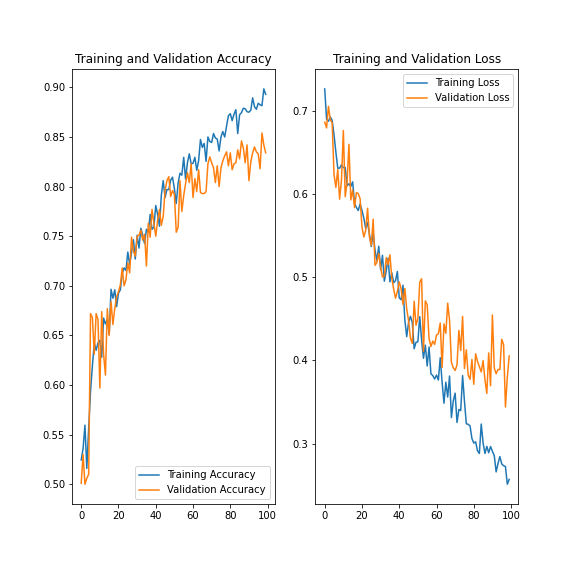
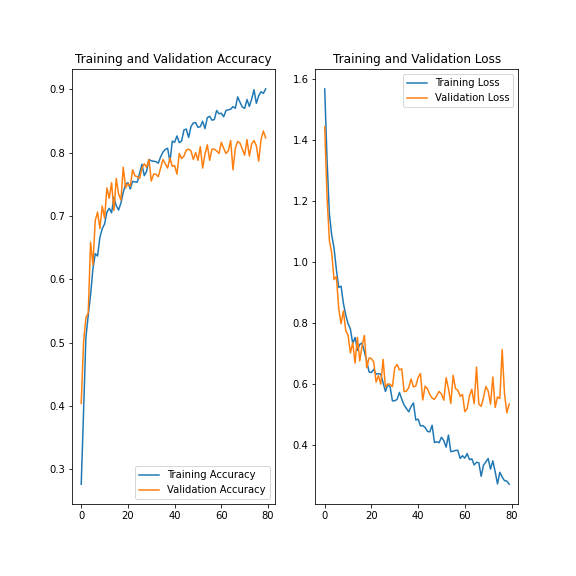
Exercise: Classify Images of Flowers
Validation accuracy around 80%, though the structure of NN might be better (probably).  I doubt the possibilty to achieve accuracy rate more than 85% with this method. without significant compication of the method.

diff --git a/project4.1_main.py b/project4.1_main.py
@@ -1,0 +1,272 @@
+"""project4.
+
+--> Flowers recognition:
+Rose
+Daisy
+Dandelion
+Sunflowers
+Tulips
+"""
+import tensorflow as tf
+from tensorflow.keras.preprocessing.image import ImageDataGenerator
+import logging  # creating log messages
+import os  # os — to read files and directory structure
+import matplotlib.pyplot as plt  # to plot the graph and display images in our training and validation data
+import numpy as np
+import glob
+import shutil
+# import math
+
+
+def plotImages(images_arr):
+    """Plot images that is what this function does.
+
+    In the form of a grid with 1 row and 5 columns
+    where images are placed in each column.
+    """
+    fig, axes = plt.subplots(1, 5, figsize=(20, 20))
+    axes = axes.flatten()
+    for img, ax in zip(images_arr, axes):
+        ax.imshow(img)
+    plt.tight_layout()
+    plt.show()
+
+
+logger = tf.get_logger()
+logger.setLevel(logging.ERROR)
+
+# Import TensorFlow Datasets
+_URL = "https://storage.googleapis.com/download.tensorflow.org/example_images/flower_photos.tgz"
+
+zip_dir = tf.keras.utils.get_file(origin=_URL,
+                                  fname="flower_photos.tgz",
+                                  extract=True)
+# os.path.join(A,B) adds B to the path A, so it becomes A\B
+base_dir = os.path.join(os.path.dirname(zip_dir), 'flower_photos')
+
+zip_dir_base = os.path.dirname(zip_dir)
+print(zip_dir_base)
+
+classes = ['roses', 'daisy', 'dandelion', 'sunflowers', 'tulips']
+
+"""The code below creates a train and a val folder each containing 5
+folders (one for each type of flower).
+It then moves the images from the original folders to these new folders
+such that 80% of the images go to the training set and 20% of the images
+go into the validation set. In the end our directory will have the
+following structure: /train/directories_from_classes and
+/val/directoried_from_classes; initial directories (now empty) will
+remain."""
+total_train = 0
+total_val = 0
+for cl in classes:
+    img_path = os.path.join(base_dir, cl)
+    # glob.glob(path) returns a list of paths depending on symbols in it
+    # i.e. glob.glob(path + '*.txt') will return the list of paths
+    # to all txt files; here it returns paths to all img files
+    images = glob.glob(img_path + '/*.jpg')
+    # images contains the list of paths to images
+    print("{}: {} Images".format(cl, len(images)))
+    # note that a colon in the beginning and in the end of the
+    # iteratable of the list --> it means that the first 80%
+    # and the remaining of the ferst 80%
+    train, val = images[:round(len(images)*0.8)], images[round(len(images)*0.8):]
+    # moving files to train; "if not" creates the directory; probably, better
+    # to use the cycle for creating separately; for the small data it is ok
+    print(cl, len(train), len(val))
+    total_train += len(train)  # calculating total train files number
+    total_val += len(val)  # calculating total val files number
+    for t in train:
+        if not os.path.exists(os.path.join(base_dir, 'train', cl)):
+            os.makedirs(os.path.join(base_dir, 'train', cl))
+        try:
+            shutil.move(t, os.path.join(base_dir, 'train', cl))
+        except: 
+            pass
+
+    # moving files to val
+    for v in val:
+        if not os.path.exists(os.path.join(base_dir, 'val', cl)):
+            os.makedirs(os.path.join(base_dir, 'val', cl))
+        try:
+            shutil.move(v, os.path.join(base_dir, 'val', cl))
+        except:
+            pass
+
+print("total_train, total_val = ", total_train, total_val)
+# the pathes to val and train directories; they contains
+# 5 directories with with flower names
+train_dir = os.path.join(base_dir, 'train')
+val_dir = os.path.join(base_dir, 'val')
+
+"""Now, when paths are set, we are ready to start."""
+
+# Number of training examples to process before
+# updating our models variables
+BATCH_SIZE = 100
+# Our training data consists of images with width
+# of 150 pixels and height of 150 pixels
+IMG_SHAPE = 150
+
+
+""" MODEL AUGMENTATION """
+
+""" Rotating images in the dataset
+Example of how it could be applied is presented below
+
+image_gen.flow_from_directory returns:
+A DirectoryIterator yielding tuples of (x, y)
+where x is a numpy array containing a batch of images
+with shape (batch_size, *target_size, channels) and y
+is a numpy array of corresponding labels.
+"""
+
+""" Augmenting the whole dataset"""
+
+"""Images must be formatted into appropriately pre-processed floating
+point tensors before being fed into the network. The steps involved in
+preparing these images are:
+1. Read images from the disk
+2. Decode contents of these images and convert it into proper grid format
+as per their RGB content
+3. Convert them into floating point tensors
+4. Rescale the tensors from values between 0 and 255 to values between
+0 and 1, as neural networks prefer to deal with small input values.
+
+Fortunately, all these tasks can be done using
+the class tf.keras.preprocessing.image.ImageDataGenerator.
+We can set this up in a couple of lines of code."""
+
+image_gen_train = ImageDataGenerator(
+      rescale=1./255,
+      rotation_range=40,
+      width_shift_range=0.2,
+      height_shift_range=0.2,
+      shear_range=0.2,
+      zoom_range=0.2,
+      horizontal_flip=True,
+      fill_mode='nearest')
+# Creating an object which will be applied to the dataset
+# Next applying the object (method) to the dataset to obtain
+# a new one with new prperties
+
+train_data_gen = image_gen_train.flow_from_directory(
+  directory=train_dir,
+  target_size=(IMG_SHAPE, IMG_SHAPE),
+  batch_size=BATCH_SIZE,
+  shuffle=True,
+  class_mode='categorical')  # classes=classes,
+# Returns a DirectoryIterator yielding tuples of (x, y)
+# where x is a numpy array containing a batch of images with shape
+# (batch_size, *target_size, channels) and y is a numpy array
+# of corresponding labels.
+
+"""Defining the validation dataset (without augmenting)"""
+
+validation_image_generator = ImageDataGenerator(rescale=1./255)
+
+"""After defining our generators for training and validation
+images, flow_from_directory method will load images from the disk,
+apply rescaling, and resize them using single line of code."""
+
+val_data_gen = validation_image_generator.flow_from_directory(
+  directory=val_dir,
+  target_size=(IMG_SHAPE, IMG_SHAPE),
+  batch_size=BATCH_SIZE,
+  shuffle=True,
+  class_mode='categorical')
+
+""" Visualizing Training images """
+
+augmented_images = [train_data_gen[0][0][0] for i in range(5)]
+plotImages(augmented_images)
+
+
+# [:5] = [0:5:1] 0 and :1 are defaults
+# plotImages(sample_training_images[:5])  # Plot images 0-4
+
+
+"""  Define the model """
+"""  1. Define layers, make the list of layers
+     2. Input the sequence (list) of layers into a model
+     3. Compile the model
+"""
+# 1. Define layers
+# in Conv2D: 32 - number of outputs, 3,3 - the size of the Kernel
+# relu gives nonlinearity; input shape 150px x 150 px x 3 colors
+layers = [tf.keras.layers.Conv2D(32, (3, 3), activation='relu',
+                                 input_shape=(150, 150, 3))]
+layers.append(tf.keras.layers.MaxPooling2D(2, 2))
+
+layers.append(tf.keras.layers.Conv2D(64, (3, 3), activation='relu'))
+layers.append(tf.keras.layers.MaxPooling2D(2, 2))
+
+layers.append(tf.keras.layers.Conv2D(128, (3, 3), activation='relu'))
+layers.append(tf.keras.layers.MaxPooling2D(2, 2))
+
+layers.append(tf.keras.layers.Conv2D(128, (3, 3), activation='relu'))
+layers.append(tf.keras.layers.MaxPooling2D(2, 2))
+
+layers.append(tf.keras.layers.Dropout(0.25))  # turns off 25% of nodes randomly
+
+layers.append(tf.keras.layers.Flatten())
+
+layers.append(tf.keras.layers.Dropout(0.25))
+layers.append(tf.keras.layers.Dense(512, activation='relu'))
+layers.append(tf.keras.layers.Dense(32, activation='relu'))  # default activation is linear
+layers.append(tf.keras.layers.Dense(5, activation='softmax'))
+
+# 2. Input the sequence (list) of layers into a model
+model = tf.keras.models.Sequential(layers)
+
+# 3. Compile the model
+model.compile(optimizer='adam',
+              loss='categorical_crossentropy',
+              metrics=['accuracy'])
+
+""" Model Summary """
+model.summary()
+
+EPOCHS = 80
+history = model.fit_generator(
+    generator=train_data_gen,
+    steps_per_epoch=int(np.ceil(float(total_train) / float(BATCH_SIZE))),
+    epochs=EPOCHS,
+    validation_data=val_data_gen,
+    validation_steps=int(np.ceil(float(total_val) / float(BATCH_SIZE)))
+)
+# np.ceil(number) is the smallest integer which is more than the number
+# using fit_generator instead of fit for the data from generator
+# if I get it right it is possible to use model.fit, but less productive
+
+""" Visualizing results of the training """
+
+acc = history.history['accuracy']
+val_acc = history.history['val_accuracy']
+
+loss = history.history['loss']
+val_loss = history.history['val_loss']
+
+epochs_range = range(EPOCHS)
+
+plt.figure(figsize=(8, 8))
+plt.subplot(1, 2, 1)
+plt.plot(epochs_range, acc, label='Training Accuracy')
+plt.plot(epochs_range, val_acc, label='Validation Accuracy')
+plt.legend(loc='lower right')
+plt.title('Training and Validation Accuracy')
+
+plt.subplot(1, 2, 2)
+plt.plot(epochs_range, loss, label='Training Loss')
+plt.plot(epochs_range, val_loss, label='Validation Loss')
+plt.legend(loc='upper right')
+plt.title('Training and Validation Loss')
+plt.savefig('./foo.png')
+plt.show()
+
+
+
+
+
+
+
